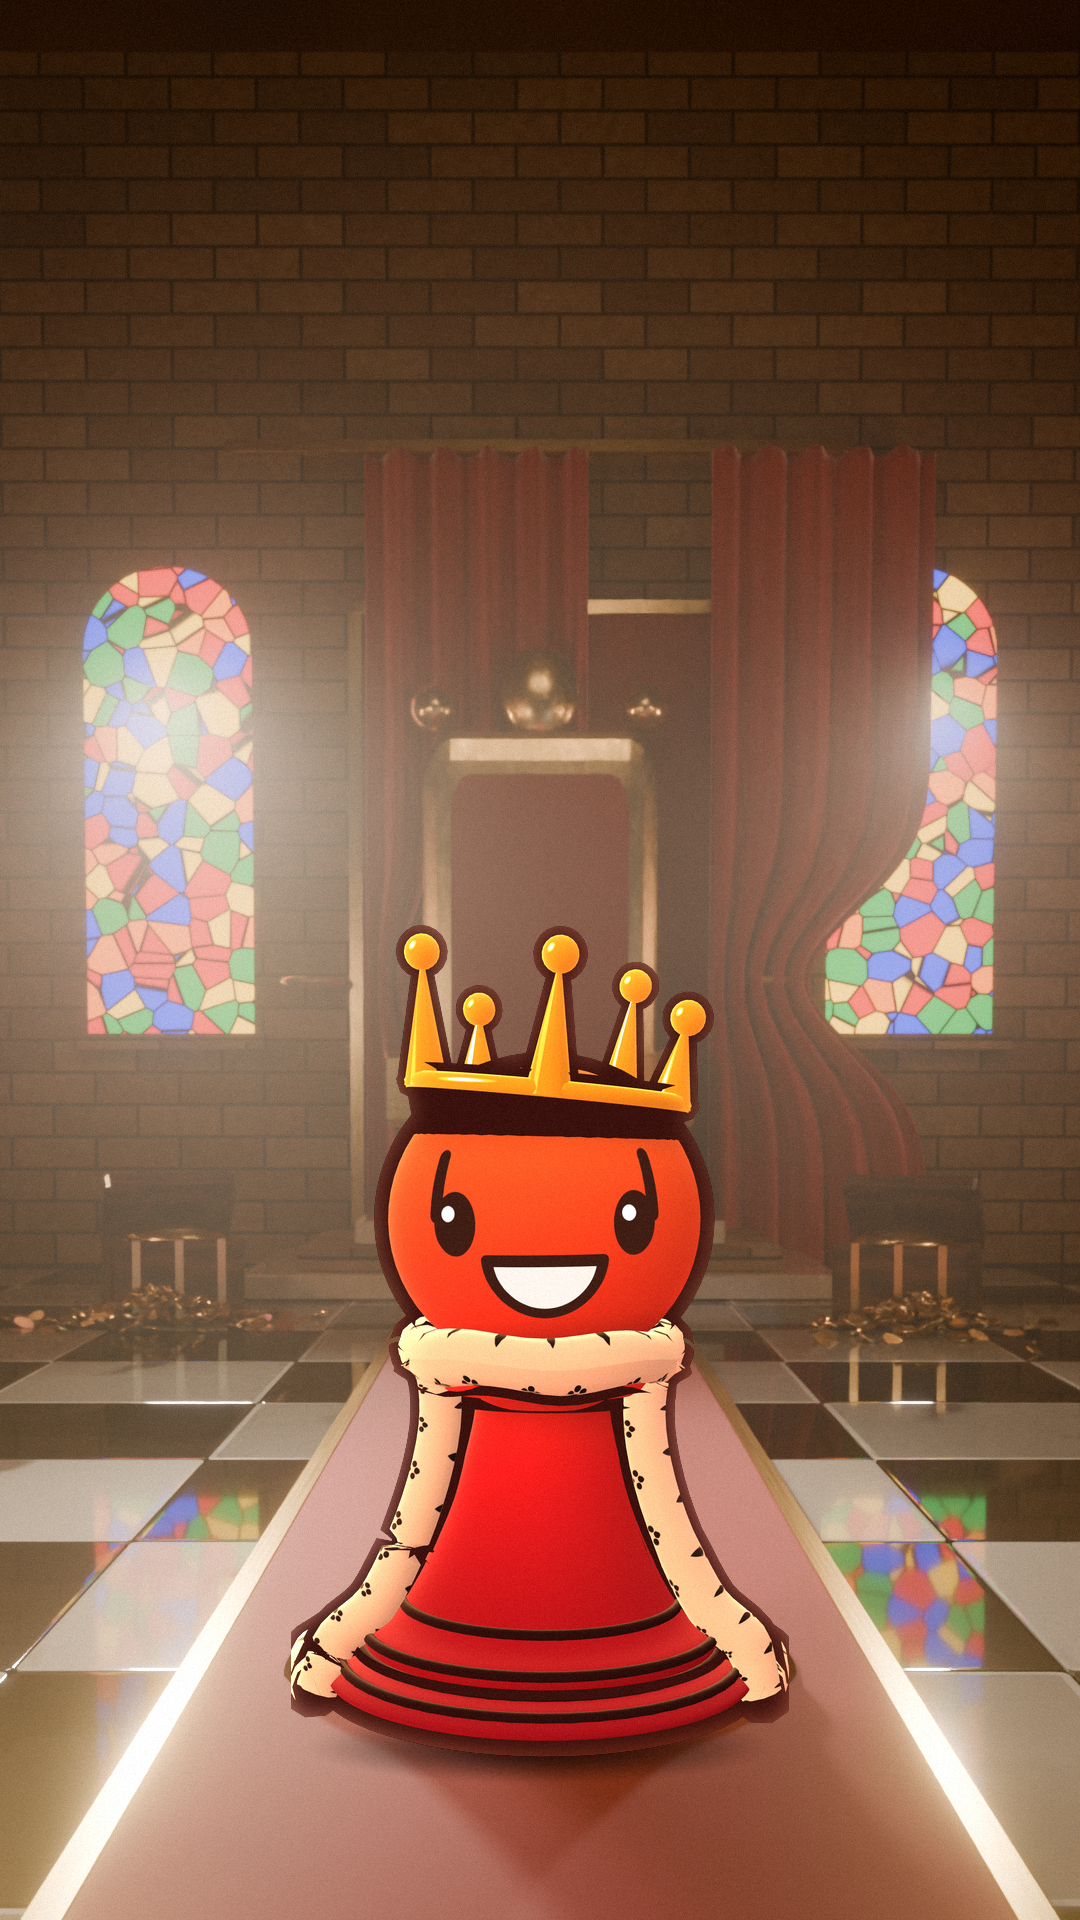
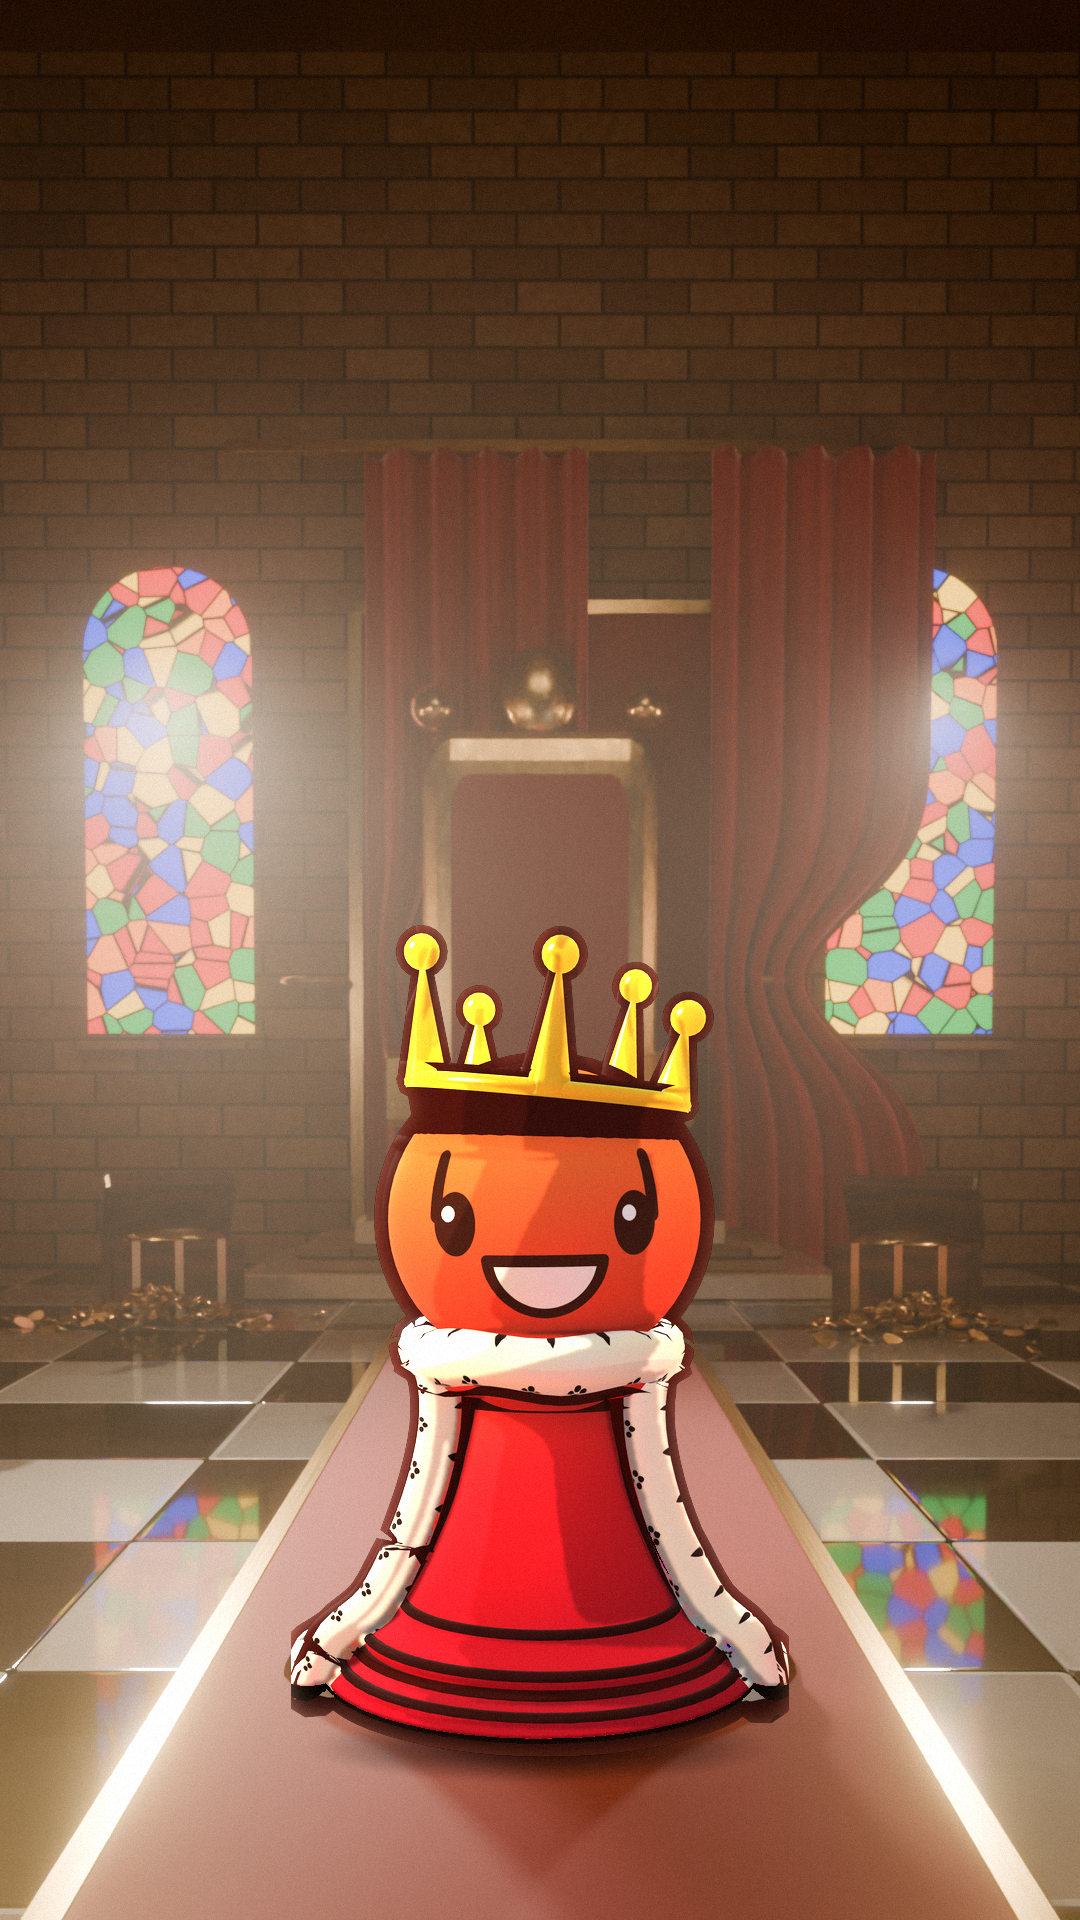
feat(pion3d): relight the engine Pion with the room's light
build_castle.py --lightpass renders the hidden proxy alone in white clay,
lit and shadowed by the throne room. comp_pion.py --light multiplies that
light onto the engine Pion in cel bands, keeping the warm cast, plus a
window rim, so torches, crown shadow and bounce show on the character.

Claude-Session: https://claude.ai/code/session_01Y3DguRHNFhJHvDX1N5rj1S

Changed region(s): [[0.2444, 0.4688, 0.7333, 0.9062]]

diff --git a/pion3d/comp_pion.py b/pion3d/comp_pion.py
@@ -19,6 +19,58 @@ ENGINE_H = 4.65   # engine pion height (model units, crown tip to base)
 PROXY_H = 4.83    # Blender proxy height: its crown is scaled 1.18 in z
 
 
+def _box(a, r, axis):
+    """Box filter of radius r along one axis (edge-clamped), via cumulative sums."""
+    pad = [(0, 0)] * a.ndim
+    pad[axis] = (r + 1, r)
+    c = np.cumsum(np.pad(a, pad, mode="edge"), axis=axis)
+    hi = np.take(c, np.arange(2 * r + 1, c.shape[axis]), axis=axis)
+    lo = np.take(c, np.arange(0, c.shape[axis] - 2 * r - 1), axis=axis)
+    return (hi - lo) / (2 * r + 1)
+
+
+def _blur(img, r):
+    """Float Gaussian-ish blur: three box passes per axis (PIL cannot blur float images)."""
+    r = max(1, int(r / 1.7))
+    out = img.astype(np.float32)
+    for _ in range(3):
+        out = _box(_box(out, r, 0), r, 1)
+    return out
+
+
+def relight(rgb, alpha, light_png, size, strength, bands):
+    """Multiply the room's light (Blender clay proxy) onto the engine Pion, cel-banded."""
+    Lp = Image.open(light_png).convert("RGBA").resize(size, Image.LANCZOS)
+    Lf = np.asarray(Lp).astype(np.float32) / 255.0
+    lc, la = Lf[..., :3], Lf[..., 3:4]
+    # fill outside the proxy silhouette (engine and proxy outlines differ a little):
+    # normalised convolution of the premultiplied light
+    r = max(3, size[0] // 60)
+    num = _blur((lc * la).astype(np.float32), r)
+    den = _blur(la.astype(np.float32), r)
+    filled = num / np.maximum(den, 1e-4)
+    lc = lc * la + filled * (1 - la)
+    lum = lc.mean(-1, keepdims=True)
+    inside = (la[..., 0] > 0.5)
+    ref = np.percentile(lum[inside], 55) if inside.any() else lum.mean()
+    shade = lum / max(ref, 1e-4)
+    tint = lc / np.maximum(lum, 1e-4)
+    # keep the room's warm cast (torches, candles): only take out half of the average tint
+    if inside.any():
+        tint = tint / (0.5 + 0.5 * tint[inside].mean(0))
+    if bands > 0:  # cel steps with a soft 1.5 px edge
+        levels = np.linspace(0.5, 1.4, bands)
+        idx = np.clip(np.round((shade - 0.55) / (0.8 / max(bands - 1, 1))), 0, bands - 1).astype(int)
+        q = levels[idx]
+        shade = _blur(q.astype(np.float32), 2)
+    factor = shade * tint
+    factor = 1 + (factor - 1) * strength
+    # rim: the brightest light (window behind) adds a warm edge, not just a multiply
+    rim = np.clip(lum / max(ref, 1e-4) - 1.45, 0, 1) * 0.35 * strength
+    out = rgb * factor + rim * tint * 0.6
+    return out * alpha + rgb * (1 - alpha)
+
+
 def main():
     ap = argparse.ArgumentParser()
     ap.add_argument("--bg", required=True)
@@ -31,6 +83,9 @@ def main():
     ap.add_argument("--dx", type=float, default=0.0)
     ap.add_argument("--dy", type=float, default=0.0)
     ap.add_argument("--contact", type=float, default=0.75)
+    ap.add_argument("--light", default=None, help="light pass PNG from build_castle.py --lightpass")
+    ap.add_argument("--relight", type=float, default=1.0, help="how much of the room light goes onto Pion")
+    ap.add_argument("--bands", type=int, default=4, help="cel bands for the room light (0 = smooth)")
     a = ap.parse_args()
 
     bg = Image.open(a.bg).convert("RGB")
@@ -57,6 +112,8 @@ def main():
     rgb, alpha = F[..., :3], F[..., 3:4]
     B = np.asarray(bg).astype(np.float32) / 255.0
 
+    if a.light:
+        rgb = relight(rgb, alpha, a.light, (W, H), a.relight, a.bands)
     # light wrap: blurred plate bleeding over the inner edge of the character
     r = max(2, round(W / 90))
     blur_bg = np.asarray(bg.filter(ImageFilter.GaussianBlur(r))).astype(np.float32) / 255.0

diff --git a/pion3d/build_castle.py b/pion3d/build_castle.py
@@ -18,6 +18,7 @@ import argparse
 import math
 import os
 import random
+import time
 import sys
 
 import bpy  # must come before bmesh/mathutils with the pip module
@@ -552,6 +553,9 @@ def main():
     ap.add_argument("--proxy", action="store_true",
                     help="Pion invisible to camera/reflections, still casts shadows (for the engine Pion composite)")
     ap.add_argument("--bbox", default=None, help="write the proxy's screen bbox (px) to this JSON")
+    ap.add_argument("--lightpass", default=None,
+                    help="also render the proxy alone in white clay, lit by the room (RGBA PNG) for relighting the engine Pion")
+    ap.add_argument("--lightpass-only", action="store_true", help="skip the beauty render")
     a = ap.parse_args(argv)
     bpy.ops.wm.read_factory_settings(use_empty=True)
     rig, pion_objs = build_pion(a.expr)
@@ -600,12 +604,56 @@ def main():
             o.visible_volume_scatter = False
     bpy.ops.wm.save_as_mainfile(filepath=a.out)
     print("RESULT built", a.out)
-    if a.render:
-        import time
+    import time
+    if a.render and not a.lightpass_only:
         t0 = time.time()
         sc.render.filepath = a.render
         bpy.ops.render.render(write_still=True)
         print("RESULT rendered", a.render, f"{time.time() - t0:.1f}s")
+    if a.lightpass:
+        render_lightpass(sc, pion_objs, a.lightpass, min(a.samples, 48))
+
+
+def render_lightpass(sc, pion_objs, path, samples):
+    """The room's light on Pion: proxy visible in white clay, every other object hidden from
+    the camera but still lighting and shadowing it (bounce, torch colour, window rim)."""
+    clay = bpy.data.materials.new("LightClay")
+    clay.use_nodes = True
+    b = clay.node_tree.nodes.get("Principled BSDF")
+    b.inputs["Base Color"].default_value = (0.8, 0.8, 0.8, 1)
+    b.inputs["Roughness"].default_value = 0.6
+    b.inputs["Specular IOR Level"].default_value = 0.35
+    names = {o.name for o in pion_objs}
+    for o in bpy.data.objects:
+        if o.type != "MESH":
+            continue
+        if o.name in names and o.name.startswith(("EyeWhite", "Pupil", "Brow", "Mouth", "Ruby")):
+            o.hide_render = True      # the engine draws its own face: keep only the head's form
+            continue
+        if o.name in names:
+            for md in list(o.modifiers):
+                if md.name == "Outline":
+                    o.modifiers.remove(md)
+            for i in range(len(o.material_slots)):
+                o.material_slots[i].material = clay
+            o.visible_camera = True
+            o.visible_glossy = True
+        else:
+            o.visible_camera = False
+        if o.name == "Haze":
+            o.hide_render = True
+    sc.render.film_transparent = True
+    sc.render.use_compositing = False
+    sc.view_settings.view_transform = "Standard"
+    sc.view_settings.look = "None"
+    sc.view_settings.exposure = -1.0      # headroom: the comp normalises it
+    sc.cycles.samples = samples
+    sc.render.image_settings.color_mode = "RGBA"
+    sc.render.image_settings.color_depth = "16"
+    t0 = time.time()
+    sc.render.filepath = path
+    bpy.ops.render.render(write_still=True)
+    print("RESULT lightpass", path, f"{time.time() - t0:.1f}s")
 
 
 if __name__ == "__main__":
